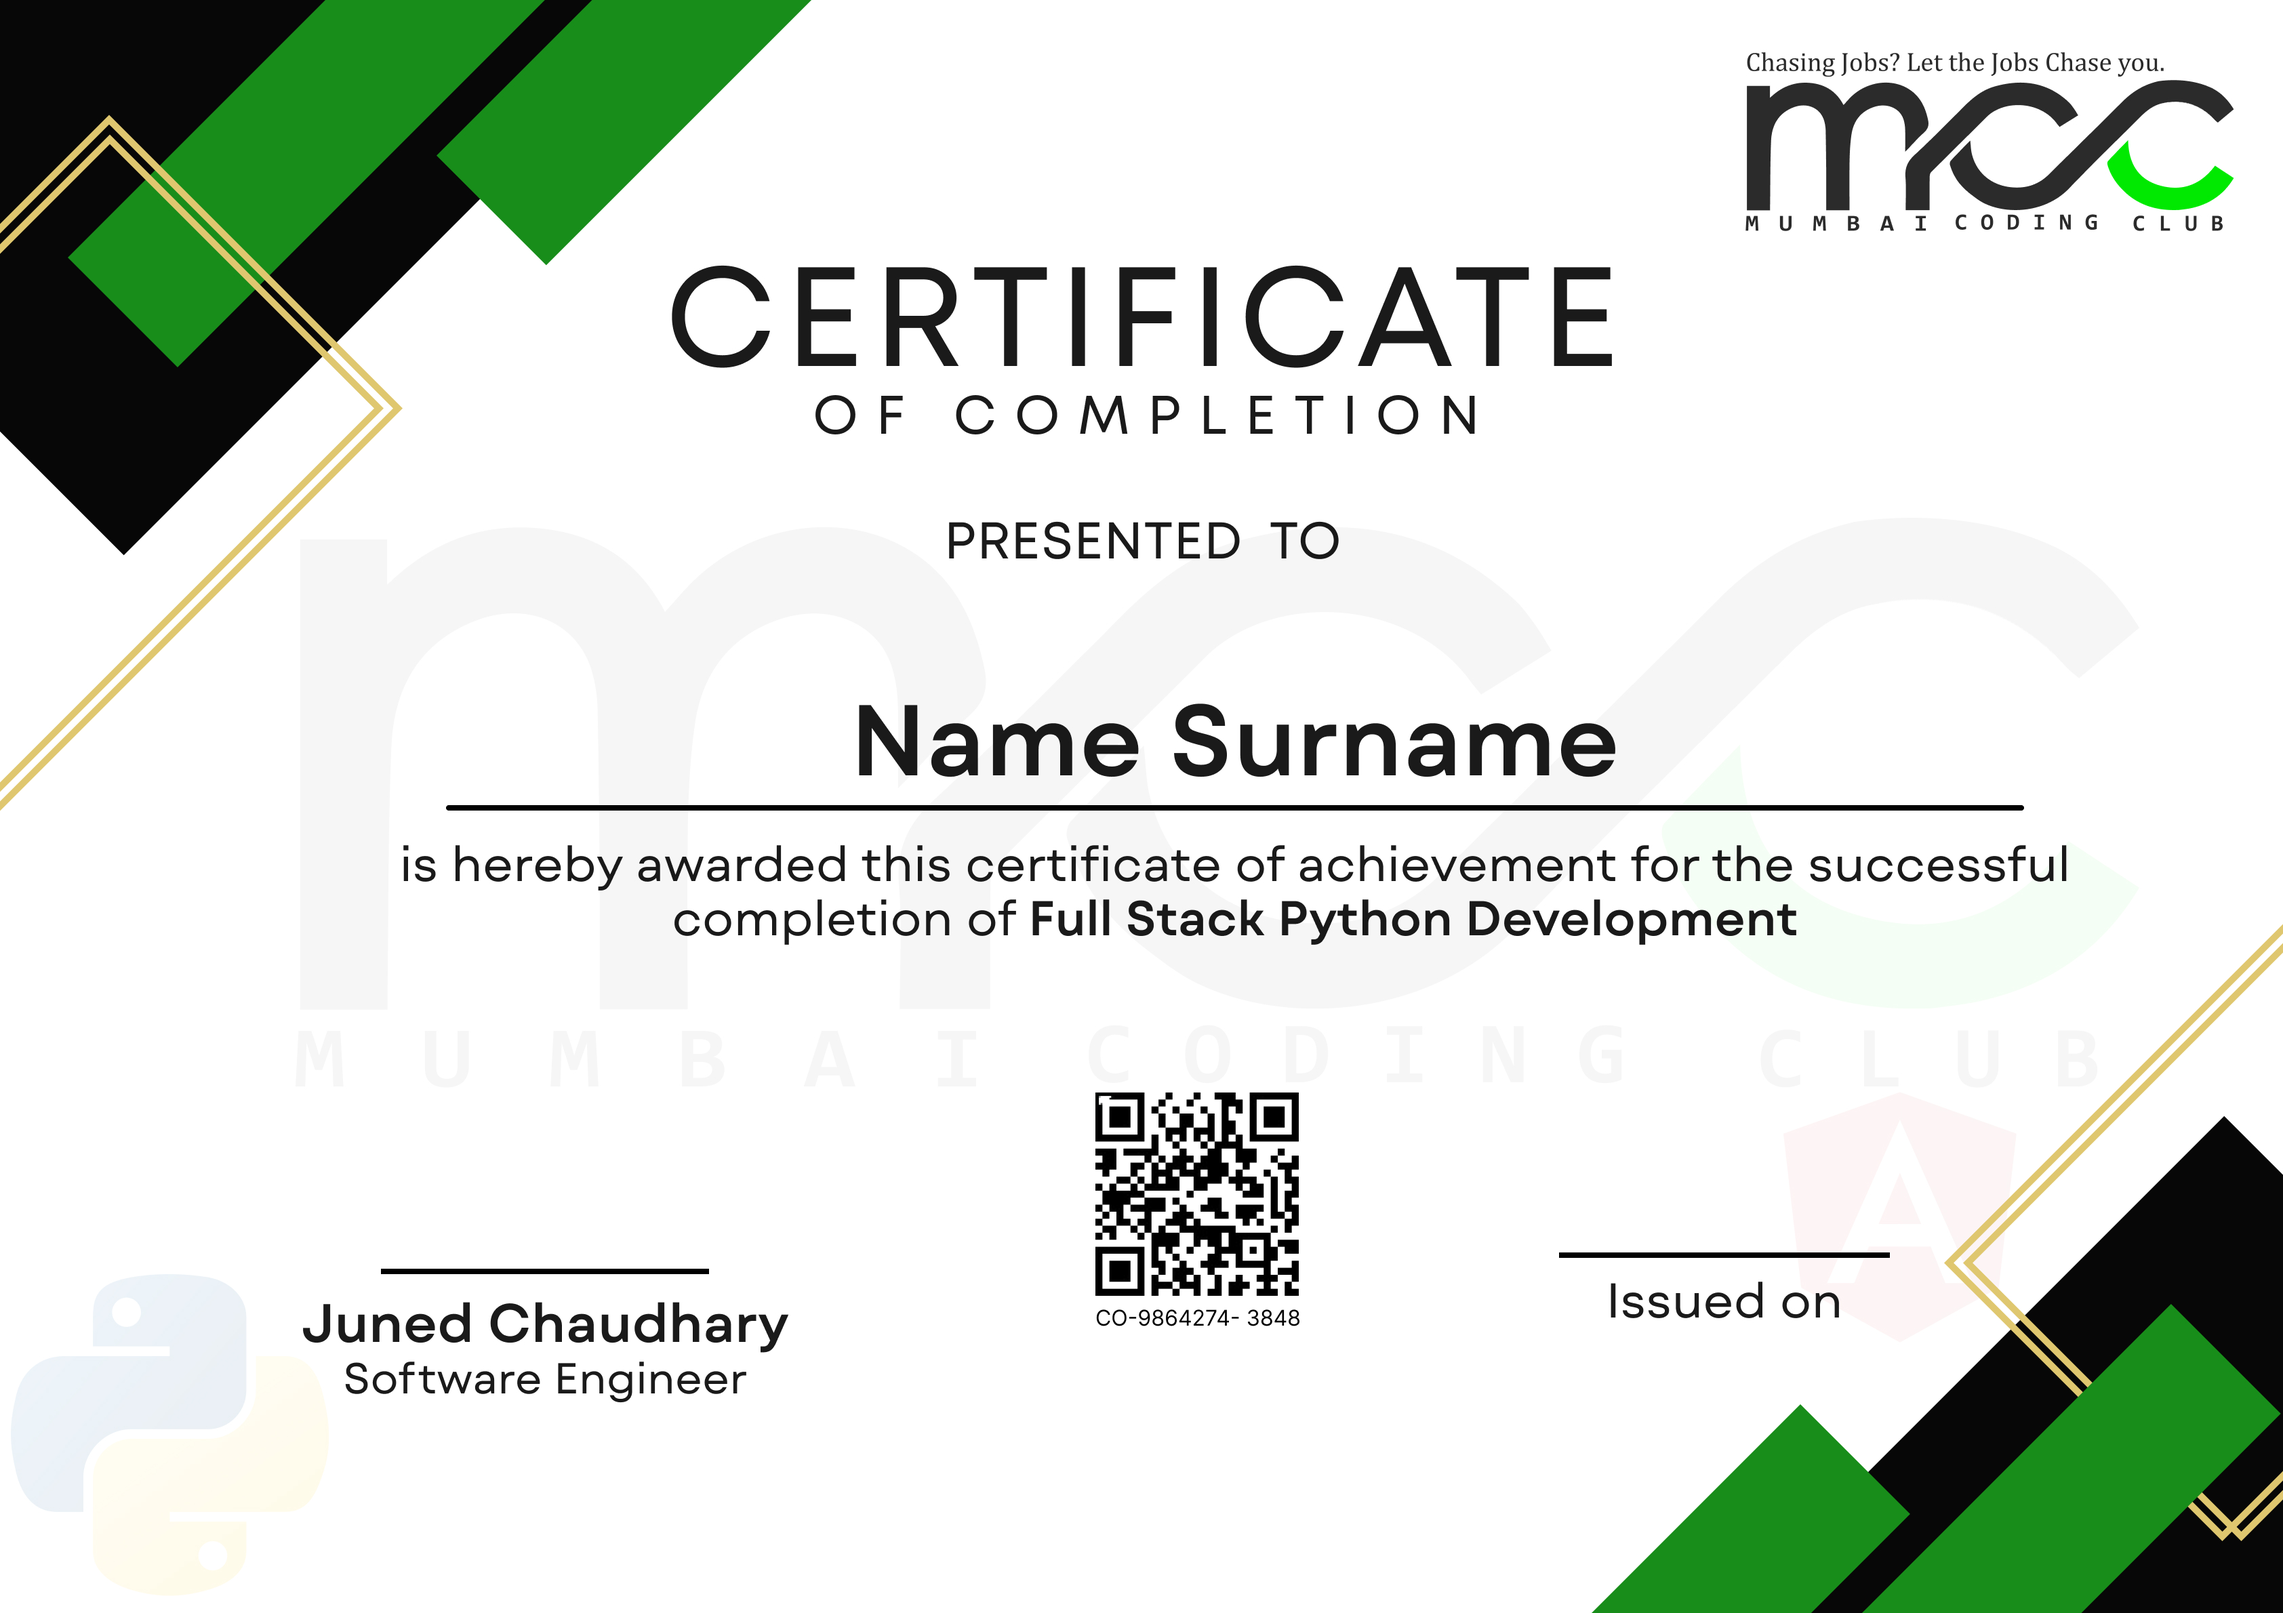
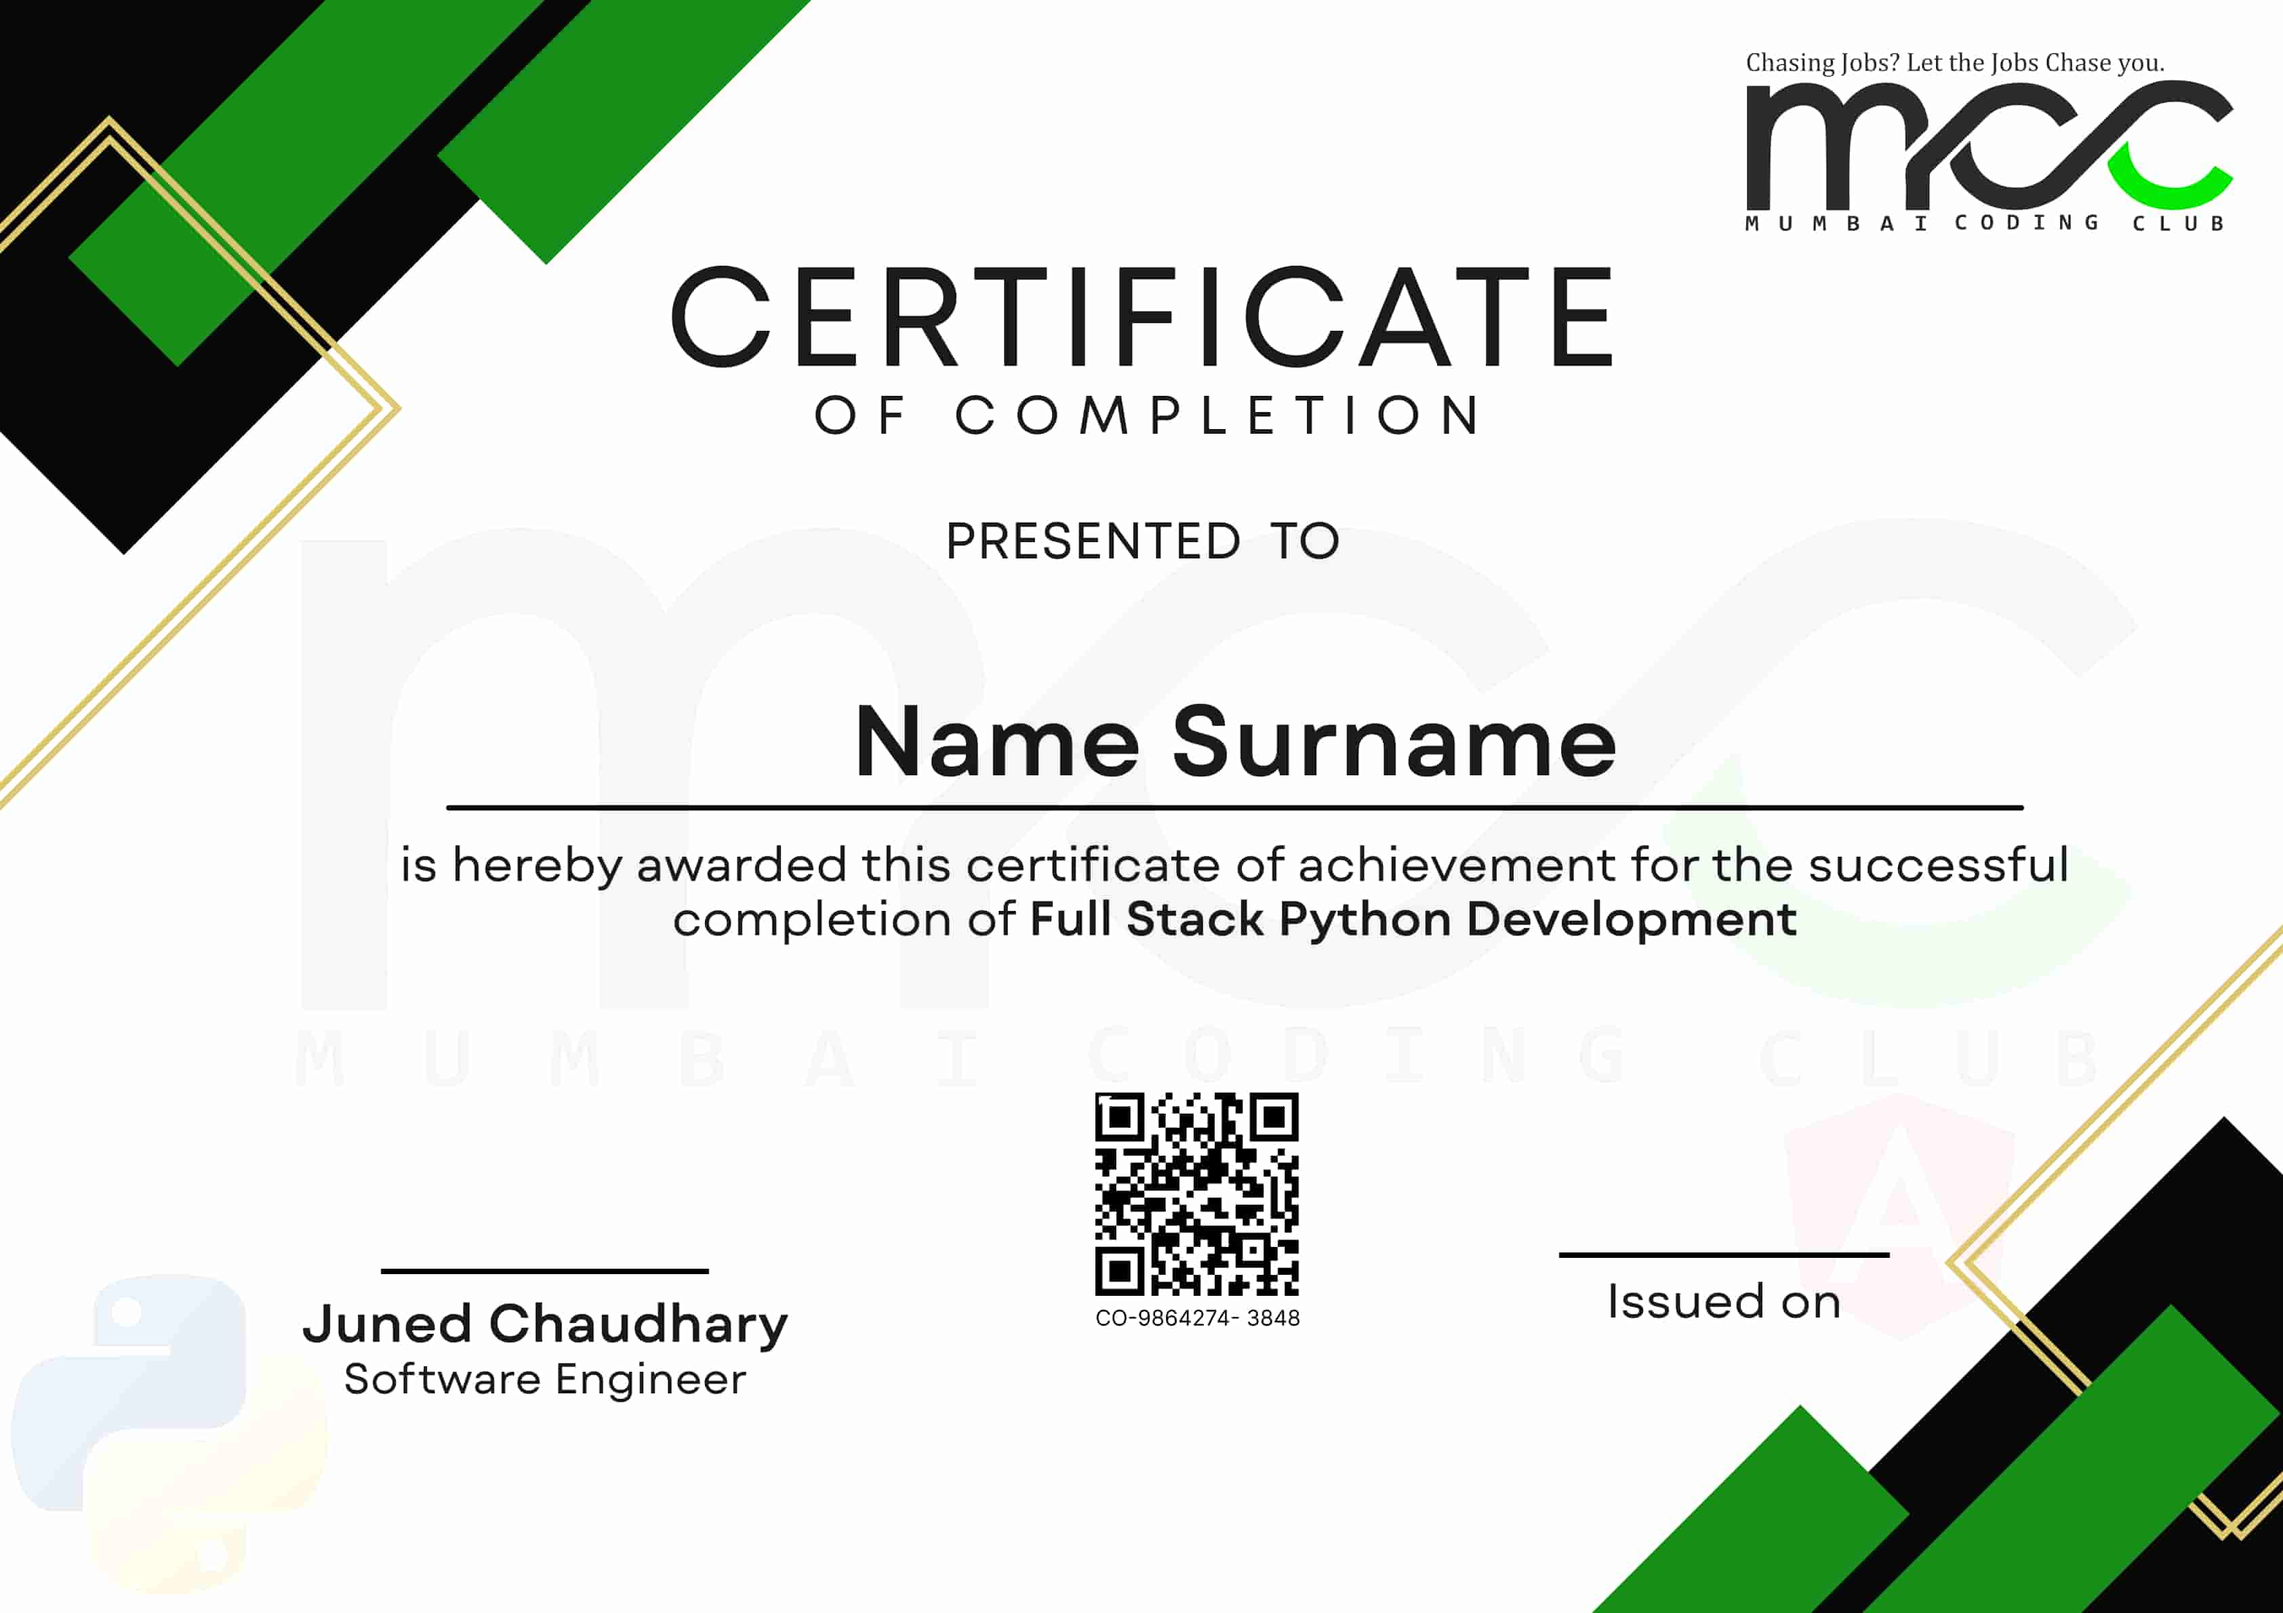
changed all the images

diff --git a/index.html b/index.html
@@ -42,7 +42,7 @@
     <div class="container1">
         <div class="wrapper">
             <div>
-              <img src="assests/home background image 1.png" alt="">
+              <img src="assests/Home- Banner Image 1.webp" alt="">
               <div class="content">
                 <p id="sub-title">Your <span>Coding</span> Journey</p>
                   <p id="title">Begins Here,<br>
@@ -57,7 +57,7 @@
             </div>
             </div>
             <div>
-              <img src="assests/home background image 2.png" alt="">
+              <img src="assests/Home- Banner Image 2.webp" alt="">
               <div class="content">
                 <p id="sub-title">Your <span>Coding</span> Journey</p>
                   <p id="title">Begins Here,<br>
@@ -72,23 +72,7 @@
             </div>
             </div>
             <div>
-              <img src="assests/home background image 3.png" alt="">
-              <div class="content">
-                <p id="sub-title">Your <span>Coding</span> Journey</p>
-                  <p id="title">Begins Here,<br>
-                    Mumbai Coding Club</p>
-                <!-- <p id="para">Where Careers Take Flight...</p> -->
-                <p id="desp">"Mumbai Coding Club is your gateway to IT education. Start your coding journey or advance your career with our comprehensive courses. Join us and step into the tech world with confidence."
-                </p>
-                <div class="btn-sec">
-                  <a href="contact.html"><button>Enroll Now</button></a>
-
-                </div>
-            </div>
-            </div>
-
-            <div>
-              <img src="assests/home background image 4.png" alt="">
+              <img src="assests/Home- Banner Image 3.webp" alt="">
               <div class="content">
                 <p id="sub-title">Your <span>Coding</span> Journey</p>
                   <p id="title">Begins Here,<br>
@@ -104,7 +88,23 @@
             </div>
 
             <div>
-              <img src="assests/home background image 3.png" alt="">
+              <img src="assests/Home- Banner Image 4.webp" alt="">
+              <div class="content">
+                <p id="sub-title">Your <span>Coding</span> Journey</p>
+                  <p id="title">Begins Here,<br>
+                    Mumbai Coding Club</p>
+                <!-- <p id="para">Where Careers Take Flight...</p> -->
+                <p id="desp">"Mumbai Coding Club is your gateway to IT education. Start your coding journey or advance your career with our comprehensive courses. Join us and step into the tech world with confidence."
+                </p>
+                <div class="btn-sec">
+                  <a href="contact.html"><button>Enroll Now</button></a>
+
+                </div>
+            </div>
+            </div>
+
+            <div>
+              <img src="assests/Home- Banner Image 3.webp" alt="">
               <div class="content">
                 <p id="sub-title">Your <span>Coding</span> Journey</p>
                   <p id="title">Begins Here,<br>
@@ -638,7 +638,7 @@ Good Iniative for beginners who are expecting their career in the field of IT. A
     </div>
 
     <div class="sec2">
-        <img src="assests/home contact image.jpg" alt="">
+        <img src="assests/Home- Contact Image.webp" alt="">
         <div class="info">
             <i class="fa-solid fa-envelope"></i>
             <div class="content">

diff --git a/course.html b/course.html
@@ -40,7 +40,7 @@
     </nav>
     
     <div class="container1">
-        <img src="assests/Course- Hero Pajes Imaje 4.jpg" alt="">
+        <img src="assests/Course- Hero Pajes Imaje.webp" alt="">
         <div class="content">
             <h1>Discover the Best Course to Master Your Coding Skills</h1>
             <p>Build dynamic web apps, robust backends, or scalable full-stack solutions with our specialized courses in Full Stack, Python Backend, Java Backend, and MEAN Stack. Learn from industry experts and gain hands-on experience to set you apart.
@@ -120,7 +120,7 @@
         <h2><span>MumbaiCodingClub</span><br> Provides Course <br>Completion Certificate</h2>
         <!-- <button>Download<i class="fa-solid fa-arrow-right"></i></button> -->
     </div>
-    <img src="assests/Certificate (2).jpg" alt="">
+    <img src="assests/Certificate.jpg" alt="">
 </div>
 <!-- <script src="https://static.elfsight.com/platform/platform.js" data-use-service-core defer></script> -->
 <!-- <div class="elfsight-app-3c349834-f273-45e9-9122-ebfb592c06ff" data-elfsight-app-lazy></div> -->

diff --git a/about.html b/about.html
@@ -42,7 +42,7 @@
     </nav>
     
     <div class="container1">
-        <img src="assests/About- Hero Pajes Imaje.jpg" alt="">
+        <img src="assests/About- Hero Image.webp" alt="">
         <div class="content">
             <h1>About Mumbai Coding Club</h1>
             <p>Helping the Next Generation of Tech Leaders Grow with Quality Education and Real-World Experience</p>
@@ -89,7 +89,7 @@
 
     <div class="container4">
         <div class="sec">
-        <img src="assests/Picsart_24-08-17_11-50-43-326 1.png" alt="" id="image">
+        <img src="assests/About.webp" alt="" id="image">
     </div>
         <div class="section1">
             <h2>Mumbai Coding Club Features</h2>

diff --git a/achievement.html b/achievement.html
@@ -41,7 +41,7 @@
     </nav>
     
         <div class="container1">
-            <img src="assests/Achievements- Hero Pajes Imaje.jpg" alt="">
+            <img src="assests/Achievement- Hero Pajes Imaje.png" alt="">
             <div class="text-content">
                 <h1>From Classroom to High Salaries</h1>
                 <p>Meet Our Alumni Who Have Achieved Great Heights in Their Careers

diff --git a/style.css b/style.css
@@ -1101,6 +1101,10 @@ color: var(--black-color1);
     .container7{
       padding: 2rem 3rem;
     }
+    .container7 .sec1 h2 {
+      font-size: var(--font-size2);
+      line-height: 32px;
+    }
     .container2 .inner-sec .sec2{
       margin-bottom: 24rem;
     }.container4{
